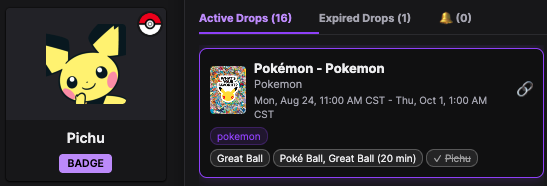
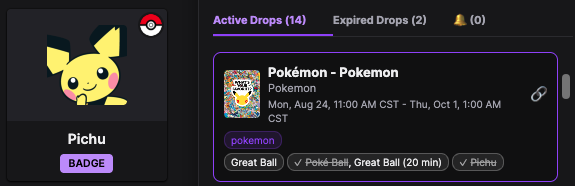
feat(twitch-drops-highlighter): tacha la bola agotada de una reward campaign y comparte su campaña con enlace propio — bump 1.3.9 -> 1.3.10

diff --git a/twitch-drops-highlighter.user.js b/twitch-drops-highlighter.user.js
@@ -1,7 +1,7 @@
 // ==UserScript==
 // @name         Twitch Drops Highlighter + Keywords (Full + i18n)
 // @namespace    http://tampermonkey.net/
-// @version      1.3.9
+// @version      1.3.10
 // @description  Highlights the Twitch drop campaigns matching your keywords on the page itself, and lists them in a panel split into active and expired. Rewards you own are ticked, one earned but not collected is flagged with a gift, and every open card shows the watch time you still need. Sort by closing date or by cheapest, trim the list with four filters, and exclude with keywords starting with "-". Optional auto-claim of finished drops. Reads badge campaigns too. 16 languages, read-only GraphQL queries.
[1 lines of base64/hex data omitted]
 // @match        https://www.twitch.tv/drops/*
@@ -18,7 +18,7 @@
 
 (function () {
     "use strict";
-    const SCRIPT_VERSION = "1.3.9";
+    const SCRIPT_VERSION = "1.3.10";
     console.log("Twitch Drops Highlighter cargado. Version:", SCRIPT_VERSION);
 
     // =============================================
@@ -1853,6 +1853,38 @@
                 const required = p ? (Number(p.required) || 0) : 0;
                 if (p && required > 0 && (Number(p.current) || 0) >= required) return true;
             }
+            // CONTENEDORES: una reward campaign no reparte premios, reparte cajas —«Poké
+            // Ball», «Great Ball»— que se abren solas al cumplir el tiempo y sueltan un
+            // emblema. El historial apunta el EMBLEMA y nunca la caja (el `reward.id` de
+            // la bola no aparece en `earnedDropRewards` por construccion), asi que estos
+            // tramos llegan con `benefitIds: []` y por el camino de abajo no podrian
+            // marcarse jamas. Lo que si se puede es contar: cuantas cajas prometio la
+            // campaña contra cuantas concesiones lleva.
+            //
+            // Se compara POR CAMPAÑA y no recompensa a recompensa, y es deliberado. El
+            // historial dice de que campaña salio cada emblema, pero no de que caja, asi
+            // que repartir las concesiones entre varias recompensas de la misma campaña
+            // seria inventarselo. Comparando totales, esto solo puede dar `true` cuando
+            // TODOS los grupos han entregado —o sea cuando no queda ninguna caja por
+            // abrir—: mientras la campaña esta a medias marca de menos, que es el lado
+            // bueno del error y la regla de la casa.
+            //
+            // Ejemplo con lo que hay hoy (2026-09-08, «First Partners Collection»): la
+            // Poké Ball es 1 grupo y su campaña concedio «Pichu», asi que 1 >= 1 y la
+            // bola sale tachada; las dos campañas de Great Ball son 3 grupos cada una y
+            // van por 0, asi que no se tocan. Lo que hace generalizable esto es que
+            // ninguna de las dos cifras esta escrita aqui: las dos salen de la API.
+            //
+            // Y falla por defecto tambien si dos cajas dieran el MISMO emblema: el indice
+            // deduplica por (id + nombre), contaria una y no marcaria. Preferible a lo
+            // contrario.
+            if (drop.rewardCampaign) {
+                const gruposPrometidos = Number(drop.campaignGroups) || 0;
+                if (!drop.campaignId || gruposPrometidos <= 0) return false;
+                const concedidos = (_earnedRewardsByCampaign[drop.campaignId] || []).length;
+                return concedidos >= gruposPrometidos;
+            }
+
             // El cruce por benefit es un RECURSO, no la fuente buena, y solo vale
             // cuando no hay dato por tramo: si la campaña esta en el inventario, Twitch
             // ya dijo tramo a tramo lo que tienes (self.isClaimed, arriba) y esto solo
@@ -2669,6 +2701,13 @@
                             // (ver _earnedRewardsByCampaign), que es lo unico que se puede
                             // saber de un contenedor cuyo propio id no consta en el historial.
                             campaignId: rc.id || '',
+                            // CUANTAS cajas promete esta campaña. Es el numero de grupos,
+                            // y no es una lectura mia: coincide con el badge «x3» que la
+                            // propia pagina de campañas pinta sobre la Great Ball —tres
+                            // grupos— y con su ausencia en la Poké Ball, que tiene uno.
+                            // Verificado el 2026-09-08 con el volcado completo. Sin esto
+                            // no hay forma de saber cuando una reward campaign se agota.
+                            campaignGroups: grupos.length,
                             // Y que esto es una reward campaign, dicho a las claras. Las
                             // campañas de drops tambien llevan `campaignId`, asi que sin esta
                             // marca lo de abajo les añadiria un premio ya concedido que ellas
@@ -2702,18 +2741,35 @@
                     // deduplicado a TODAS de golpe. Tampoco les hace falta: su clave
                     // lleva el nombre de la campaña, que Twitch no traduce.
                     //
-                    // SIN campaignId tampoco, y esto no es una suposicion: NO EXISTE
-                    // enlace profundo a una reward campaign. Comprobado el 2026-08-08
-                    // por los dos lados con «FF14 Support a Streamer»:
-                    //   · se le paso su id a `?dropID=` —que si funciona con las
-                    //     campañas de drops, tambien verificado— y Twitch no lo
-                    //     reconoce: abre la lista y no enfoca nada;
-                    //   · volcando los enlaces de su tarjeta en la pagina, lo unico que
-                    //     hay es vincular cuenta (secure.square-enix.com), el directorio
-                    //     del juego (/directory/category/...) y /drops/inventory. Twitch
-                    //     no las trata como algo navegable.
-                    // Asi que el 🔗 copia la pagina de campañas a secas, que es la
-                    // verdad: mejor un enlace generico que uno con un uuid inerte.
+                    // CON campaignId, y esto CORRIGE lo que aqui decia antes. La nota
+                    // vieja afirmaba que NO existe enlace profundo a una reward campaign,
+                    // comprobado el 2026-08-08 con «FF14 Support a Streamer»: se le paso su
+                    // id a `?dropID=` y Twitch abrio la lista sin enfocar nada, asi que el
+                    // 🔗 caia al enlace generico. Era cierto de ESA campaña y se generalizo
+                    // de mas.
+                    //
+                    // Lo que lo tumba no es un razonamiento, es Twitch: el panel «Drops y
+                    // Mas» del canal escribe el enlace el mismo —«Visita la campaña First
+                    // Partners Collection» apunta a `?dropID=92f516f7-…`, que es el `rc.id`
+                    // de la Poké Ball—. Y abrirlo funciona: verificado el 2026-09-08 con
+                    // LOS TRES ids de la campaña de Pokemon (`92f516f7…`, `9bdb6607…`,
+                    // `19f00aac…`), que llevan a /drops/campaigns → «Campañas de
+                    // recompensas abiertas» y despliegan el acordeon de Pokémon.
+                    //
+                    // Los tres valen igual, asi que da lo mismo cual quede: la pagina las
+                    // junta en UN acordeon —el mismo que muestra «Great Ball x3» y «Poké
+                    // Ball» juntas— igual que este mapa las junta en una entrada. Se pone
+                    // en la creacion y no se sobreescribe: la primera que llegue gana, y
+                    // como el orden de la API no esta garantizado, esa arbitrariedad tiene
+                    // que ser inofensiva. Lo es porque los tres enfocan lo mismo; si algun
+                    // dia dejaran de hacerlo, esto es lo que habria que decidir a mano.
+                    //
+                    // Por que sigue sin haber garantia general: lo verificado es esta
+                    // campaña, no «toda reward campaign». Con FF14 el enlace era inerte, y
+                    // la hipotesis mas simple —sin comprobar— es que «Support a Streamer»
+                    // no sale en /drops/campaigns, asi que no habia nada que enfocar. Un id
+                    // que no enfoque degrada a abrir la lista, que es lo que hacia el
+                    // generico: el peor caso es el comportamiento viejo.
                     //
                     // Y se ACUMULA, no se asigna. Una marca reparte varias campañas con
                     // el MISMO nombre —«First Partners Collection» son tres ids: la
@@ -2723,7 +2779,7 @@
                     // sin dejar rastro; ahora sus tramos entran en la misma entrada, que
                     // es lo que ya se hace con las campañas de drops que comparten juego.
                     if (!_apiDropNames[key]) {
-                        _apiDropNames[key] = { drops: [], startAt: rc.startsAt || '', endAt: rc.endsAt || '', displayTitle: key, imgSrc: _apiImage(rc), boxArt: _boxArtUrlOf(rc), searchText, gameId: _gameIdOf(rc), brand, perCampaign: true };
+                        _apiDropNames[key] = { drops: [], startAt: rc.startsAt || '', endAt: rc.endsAt || '', displayTitle: key, imgSrc: _apiImage(rc), boxArt: _boxArtUrlOf(rc), searchText, gameId: _gameIdOf(rc), brand, perCampaign: true, campaignId: rc.id || '' };
                     } else {
                         _mergeSearchText(_apiDropNames[key], searchText);
                     }
@@ -3187,11 +3243,12 @@
             // asi que por el camino normal esta fila no puede marcarse NUNCA: su id no
             // existe en el historial (verificado el 2026-09-01, ver _earnedRewardsByCampaign).
             //
-            // Y tachar la bola porque la campaña concedio algo seria pasarse: la campaña
-            // sigue abierta y quedan tres emblemas por salir, asi que el ✓ diria «ya esta»
-            // sobre algo que no esta. Se pinta entonces lo unico que consta y sin
-            // interpretarlo: QUE te dio, con su ✓, en su propio chip y al lado de la bola.
-            // La bola se queda como esta —sin marcas— porque sobre ella no hay dato.
+            // Este chip dice QUE te dio, que es otra pregunta que si la bola esta hecha.
+            // Esa segunda la responde ahora _isDropClaimed contando grupos contra
+            // concesiones (2026-09-08), asi que la bola SI puede acabar tachada; lo que
+            // no cambia es que el nombre de lo concedido solo se sabe por aqui. Los dos
+            // se pintan: «✓ Poké Ball» dice que no queda ninguna por abrir y «✓ Pichu»
+            // dice lo que salio de ella.
             const concedidos = [];
             const campañasVistas = new Set();
             for (const d of drops) {
@@ -4861,10 +4918,13 @@
         // Y la ruta quedo COMPROBADA EN VIVO el 2026-08-08: abriendo el enlace copiado
         // por el 🔗, Twitch reconoce el id y despliega esa campaña.
         //
-        // Solo vale para campañas de DROPS. Las reward campaigns son otro sistema: se
-        // probo pasarles su propio id por aqui y Twitch no lo reconoce, asi que sus
-        // entradas se guardan sin `campaignId` y este enlace cae al generico (ver el
-        // comentario donde se construyen).
+        // Vale TAMBIEN para las reward campaigns, y esto cambio el 2026-09-08. Aqui se
+        // decia que Twitch no reconocia su id —cierto de «FF14 Support a Streamer» el
+        // 2026-08-08— y que por eso sus entradas iban sin `campaignId`. Ya no: el propio
+        // panel del canal enlaza `?dropID=<rc.id>` para la campaña de Pokemon, y los tres
+        // ids de esa campaña despliegan su acordeon en /drops/campaigns. El porque
+        // completo, con los ids y la parte que sigue sin garantizarse, esta en el
+        // comentario de la rama donde se construyen esas entradas.
         //
         // cleanInventory sigue volcando en consola el primer href real que encuentra:
         // ya no hace falta para comprobar la ruta, pero es lo que avisaria si Twitch

diff --git a/tests/test-emblema-concedido.js b/tests/test-emblema-concedido.js
@@ -1,16 +1,22 @@
-// Una reward campaign reparte CONTENEDORES: la «Poké Ball» no es un premio que se tenga,
-// es una caja que se abre sola al cumplir el tiempo y suelta un emblema. El historial
-// apunta el emblema y NO la caja, asi que la fila de la bola no puede marcarse por su id
-// —no existe en el historial— y tacharla porque la campaña concedio algo seria decir que
-// esta cerrada cuando aun quedan tres emblemas por salir.
+// Una reward campaign no reparte premios, reparte CONTENEDORES: la «Poké Ball» es una
+// caja que se abre sola al cumplir el tiempo y suelta un emblema. El historial apunta el
+// emblema y NUNCA la caja, asi que la fila de la bola no puede marcarse por su id —no
+// existe en el historial— y hay que decidirla contando.
 //
-// Lo que se comprueba es eso mismo, en las dos direcciones:
-//   1. el emblema concedido («Pichu») sale, con su ✓ y tachado;
-//   2. la bola («Poké Ball») NO sale tachada.
-// Sin la segunda, el arreglo pasaria igual marcandolo todo.
+// Lo que se comprueba, y son dos cosas distintas:
+//   1. QUE te dio: el emblema concedido («Pichu») sale, con su ✓ y tachado.
+//   2. SI la caja esta hecha: se tacha cuando las concesiones de esa campaña alcanzan el
+//      numero de `rewardGroups` que promete, y NO antes.
+// Sin la segunda mitad de (2) —los casos de «una de tres»— el arreglo pasaria igual
+// tachando en cuanto la campaña concede cualquier cosa, que es justo el error que se
+// quiere evitar: esconder una caja que aun puedes ganar.
 //
-// Los datos son los del volcado real del 2026-09-01 (consola del usuario), recortados a
-// lo que la prueba usa. Lo importante y lo que no se puede tocar: `campaign.id` del nodo
+// Los datos son los del volcado real de `rewardCampaignsAvailableToUser` (primaria,
+// 2026-09-08) recortado a lo que la prueba usa, con sus TRES campañas y sus grupos: 1
+// para la Poké Ball, 3 para cada Great Ball. Esas cifras son el badge «x3» que la pagina
+// de campañas pinta, y no se tocan.
+//
+// Lo importante y lo que no se puede tocar del lado del historial: `campaign.id` del nodo
 // concedido es `92f516f7-…`, el MISMO que el `id` de la reward campaign de la Poké Ball,
 // mientras que su `item.id` (`7e978af0-…`) no se parece al `reward.id` de la bola
 // (`9a604770-…`). Ese es el unico cruce que hay.
@@ -18,32 +24,44 @@ const { run } = require('./harness');
 
 const CAMP_POKEBALL = '92f516f7-f6d5-4fa6-909a-48c5b94d2a43';
 const CAMP_GREATBALL_SUBS = '9bdb6607-22c2-4317-b18a-1b6924e555d6';
+const CAMP_GREATBALL_TIEMPO = '19f00aac-6679-4e10-b36c-881beb654e52';
 const ID_POKEBALL = '9a604770-9661-11f1-8842-0a58a9feac02';
 const ID_GREATBALL = '87989657-9661-11f1-9e11-0a58a9feac02';
 const ID_PICHU = '7e978af0-9661-11f1-b03f-0a58a9feac02';
 
-const rewardCampaign = (id, nombre, premioId, minutos, subs) => ({
+const premio = (id, nombre) => ({
+    id, name: nombre,
+    thumbnailImage: { image1xURL: 'https://static-cdn.jtvnw.net/twitch-quests-assets/REWARD/y.png' },
+    earnableUntil: '2099-10-01T07:00:00Z'
+});
+
+// `requisitos` es una lista con un elemento por GRUPO: [{ subs, minutos }, …]. Su
+// longitud es la cantidad de cajas que promete la campaña, que es lo que decide el
+// tachado. La campaña de subs tiene tres grupos con subsGoal 1, 2 y 3; la de tiempo,
+// tres grupos IDENTICOS de 20 min. Los dos casos salen del volcado tal cual.
+const rewardCampaign = (id, nombre, premioId, requisitos) => ({
     id, name: 'First Partners Collection', brand: 'Pokemon',
     startsAt: '2026-08-24T17:00:00Z', endsAt: '2099-10-01T07:00:00Z', status: 'UNKNOWN',
     isSitewide: true, game: null,
-    unlockRequirements: { subsGoal: subs, minuteWatchedGoal: minutos },
+    unlockRequirements: { subsGoal: requisitos[0].subs, minuteWatchedGoal: requisitos[0].minutos },
     image: { image1xURL: 'https://static-cdn.jtvnw.net/twitch-quests-assets/CAMPAIGN/x.png' },
-    rewards: [{
-        id: premioId, name: nombre,
-        thumbnailImage: { image1xURL: 'https://static-cdn.jtvnw.net/twitch-quests-assets/REWARD/y.png' },
-        earnableUntil: '2099-10-01T07:00:00Z'
-    }]
+    rewards: [premio(premioId, nombre)],
+    rewardGroups: requisitos.map((r, i) => ({
+        id: 'grupo-' + id.slice(0, 4) + '-' + i,
+        unlockRequirements: { subsGoal: r.subs, minuteWatchedGoal: r.minutos, turboSubsGoal: 0, eventTriggerGoal: 0 },
+        rewards: [premio(premioId, nombre)]
+    }))
 });
 
-// Las TRES campañas del volcado: mismo nombre y marca, una recompensa cada una. No hay
-// `rewardGroups` en la respuesta de verdad, asi que aqui tampoco: es la caida a `rewards`
-// la que tiene que funcionar.
 const dashboard = [{
     data: {
         currentUser: { id: '1', login: 'prueba', dropCampaigns: [] },
         rewardCampaignsAvailableToUser: [
-            rewardCampaign(CAMP_POKEBALL, 'Poké Ball', ID_POKEBALL, 20, 0),
-            rewardCampaign(CAMP_GREATBALL_SUBS, 'Great Ball', ID_GREATBALL, 0, 2)
+            rewardCampaign(CAMP_POKEBALL, 'Poké Ball', ID_POKEBALL, [{ subs: 0, minutos: 20 }]),
+            rewardCampaign(CAMP_GREATBALL_SUBS, 'Great Ball', ID_GREATBALL,
+                           [{ subs: 1, minutos: 0 }, { subs: 2, minutos: 0 }, { subs: 3, minutos: 0 }]),
+            rewardCampaign(CAMP_GREATBALL_TIEMPO, 'Great Ball', ID_GREATBALL,
+                           [{ subs: 0, minutos: 20 }, { subs: 0, minutos: 20 }, { subs: 0, minutos: 20 }])
         ]
     }
 }];
@@ -70,16 +88,40 @@ const inventory = (edges) => ([{
 
 const CASOS = [
     {
-        nombre: 'con el emblema ya concedido',
-        edges: [nodoConcedido(ID_PICHU, 'Pichu', CAMP_POKEBALL)],
-        esperaPichu: true
-    },
-    {
-        // Control negativo: mismo codigo, historial sin ese nodo. Si «Pichu» saliera
-        // igual, es que lo esta sacando de otro sitio y el test no probaria nada.
+        // Control negativo: mismo codigo, historial sin nada. Si algo saliera tachado o
+        // «Pichu» apareciera igual, es que sale de otro sitio y el test no probaria nada.
         nombre: 'sin conceder nada todavia',
         edges: [],
-        esperaPichu: false
+        pichu: false, bolaTachada: false, greatSubsTachada: false, greatTiempoTachada: false
+    },
+    {
+        // 1 concesion contra 1 grupo: la Poké Ball se agoto y se tacha. Las dos campañas
+        // de Great Ball siguen a 0 de 3 y no se tocan, aunque la concesion sea «de
+        // Pokemon»: lo que cuenta es la campaña, no la marca.
+        nombre: 'la Poké Ball, ya abierta (1 concesion de 1 grupo)',
+        edges: [nodoConcedido(ID_PICHU, 'Pichu', CAMP_POKEBALL)],
+        pichu: true, bolaTachada: true, greatSubsTachada: false, greatTiempoTachada: false
+    },
+    {
+        // EL CASO QUE HACE FALTA: la campaña concedio algo y aun asi NO se tacha, porque
+        // 1 de 3 no es «hecha». Es la diferencia entre contar y conformarse con «hay
+        // alguna concesion», y sin este caso las dos reglas se ven identicas.
+        nombre: 'una Great Ball de tres (1 concesion de 3 grupos)',
+        edges: [nodoConcedido('badge-1', 'Bulbasaur', CAMP_GREATBALL_SUBS)],
+        pichu: false, bolaTachada: false, greatSubsTachada: false, greatTiempoTachada: false
+    },
+    {
+        // Las tres. Y de paso el acotado por campaña con el peor caso posible: las dos
+        // campañas de Great Ball reparten EL MISMO nombre y EL MISMO `reward.id`, asi que
+        // si el conteo no fuera por campaña, tachar la de subs tacharia tambien la de
+        // tiempo, que va por 0.
+        nombre: 'las tres Great Ball de subs (3 concesiones de 3 grupos)',
+        edges: [
+            nodoConcedido('badge-1', 'Bulbasaur', CAMP_GREATBALL_SUBS),
+            nodoConcedido('badge-2', 'Charmander', CAMP_GREATBALL_SUBS),
+            nodoConcedido('badge-3', 'Squirtle', CAMP_GREATBALL_SUBS)
+        ],
+        pichu: false, bolaTachada: false, greatSubsTachada: true, greatTiempoTachada: false
     },
     {
         // El control negativo de verdad, y es un caso REAL: una segunda cuenta (2026-09-01)
@@ -100,7 +142,7 @@ const CASOS = [
             nodoConcedido('f7c2b951-5f8d-11f1-b5a9-0a58a9feac02', 'FootballHype Emote',
                           '8e0db5de-2518-4991-a0bb-9fe187ab4999')
         ],
-        esperaPichu: false,
+        pichu: false, bolaTachada: false, greatSubsTachada: false, greatTiempoTachada: false,
         ajenos: ['Football Fest 2026', 'FootballHype Emote']
     }
 ];
@@ -118,11 +160,22 @@ const comprobar = (ok, msg) => { console.log((ok ? '  ok   ' : '  FALLA') + ' ' 
             (tarjeta ? '' : ' (titulos: ' + JSON.stringify(r.chips.map(x => x.titulo)) + ')'));
         if (!tarjeta) continue;
 
+        // Las dos Great Ball comparten nombre, asi que se separan por el chip en el que
+        // caen: el de 20 min es el que lleva ademas la Poké Ball —la campaña de tiempo—,
+        // y el otro es el de subs, que va sin coste. Sin esta separacion el caso de las
+        // tres concesiones no se podria leer.
+        const chipConBola = tarjeta.badges.find(b => b.premios.some(p => p.texto === 'Poké Ball'));
+        const chipSubs = tarjeta.badges.find(b => b !== chipConBola && b.premios.some(p => p.texto === 'Great Ball'));
         const premios = tarjeta.badges.flatMap(b => b.premios);
         const pichu = premios.find(p => p.texto === 'Pichu');
-        const bola = premios.find(p => p.texto === 'Poké Ball');
+        const bola = (chipConBola && chipConBola.premios.find(p => p.texto === 'Poké Ball')) || null;
+        const greatTiempo = (chipConBola && chipConBola.premios.find(p => p.texto === 'Great Ball')) || null;
+        const greatSubs = (chipSubs && chipSubs.premios.find(p => p.texto === 'Great Ball')) || null;
 
-        if (c.esperaPichu) {
+        comprobar(!!bola, 'la fila de la «Poké Ball» sigue en la tarjeta');
+        comprobar(!!greatSubs && !!greatTiempo, 'las dos «Great Ball» siguen en la tarjeta');
+
+        if (c.pichu) {
             comprobar(!!pichu, 'sale el emblema concedido «Pichu»');
             comprobar(!!pichu && pichu.tachado, '«Pichu» sale tachado (obtenido)');
             comprobar(tarjeta.badges.some(b => /✓/.test(b.texto) && /Pichu/.test(b.texto)),
@@ -133,14 +186,21 @@ const comprobar = (ok, msg) => { console.log((ok ? '  ok   ' : '  FALLA') + ' ' 
                 comprobar(!premios.some(pr => pr.texto === ajeno),
                     'no se cuela «' + ajeno + '», que es de otra campaña');
             }
-            comprobar(!tarjeta.badges.some(b => /✓/.test(b.texto)),
-                'la tarjeta no lleva ningun ✓');
         }
 
-        comprobar(!!bola, 'la fila de la «Poké Ball» sigue en la tarjeta');
-        comprobar(!!bola && !bola.tachado, 'la «Poké Ball» NO se tacha: la campaña sigue dando');
-        comprobar(!tarjeta.badges.some(b => /✓\s*Poké Ball/.test(b.texto)),
-            'la «Poké Ball» no lleva ✓');
+        comprobar(!!bola && bola.tachado === c.bolaTachada,
+            'la «Poké Ball» ' + (c.bolaTachada ? 'SE tacha: no queda ninguna por abrir'
+                                               : 'NO se tacha: la campaña sigue dando'));
+        comprobar(!!greatSubs && greatSubs.tachado === c.greatSubsTachada,
+            'la «Great Ball» de subs ' + (c.greatSubsTachada ? 'SE tacha' : 'NO se tacha'));
+        comprobar(!!greatTiempo && greatTiempo.tachado === c.greatTiempoTachada,
+            'la «Great Ball» de tiempo ' + (c.greatTiempoTachada ? 'SE tacha' : 'NO se tacha'));
+
+        // El ✓ y el tachado son la misma verdad dicha dos veces: un chip con ✓ delante y
+        // sin tachar seria un fallo que el texto por si solo no distingue.
+        const conTick = /✓\s*Poké Ball/.test((chipConBola && chipConBola.texto) || '');
+        comprobar(conTick === c.bolaTachada,
+            'el ✓ de la «Poké Ball» ' + (c.bolaTachada ? 'esta' : 'no esta') + ', igual que su tachado');
     }
     console.log(fallos === 0 ? '\nTODO EN VERDE' : '\n' + fallos + ' COMPROBACIONES EN ROJO');
     process.exit(fallos === 0 ? 0 : 1);

diff --git a/README.md b/README.md
@@ -27,13 +27,21 @@ Userscript that classifies and highlights drops/campaigns on Twitch based on you
 
 *Clicking that same drop opens the full detail: progress in minutes and percent, plus the time remaining. It is the same drop and the same moment as the two shots above — **2 / 30 min · 7%** and the same **28m** — so what the box says on hover and what the detail says agree. / Al hacer clic en ese mismo drop se abre el detalle completo: progreso en minutos y porcentaje, más el tiempo restante. Es el mismo drop y el mismo momento que las dos capturas de arriba —**2 / 30 min · 7%** y los mismos **28m**—, así que lo que dice la caja al pasar el ratón y lo que dice el detalle coinciden.*
 
-<img src="docs/screenshot-keyword.png" width="380" alt="A panel card titled Sonic Rumble Party - SEGA carrying two keyword chips, sonic and twitch">
+<img src="docs/screenshot-keyword.png" width="380" alt="A panel card titled Grand Theft Auto V - Twitch Gaming carrying two keyword chips, grand theft auto and twitch, above five reward chips of which four are ticked and struck through and one, nopixel V Sub Badge, is not">
 
-*Every card says which keyword found it — and **the word does not have to be in the title**. Here the campaign is called «Sonic Rumble Party - SEGA», and the `twitch` chip comes from the campaign's own name, which Twitch never prints on the card. A card with no explanation is indistinguishable from a filter that has gone wrong. / Cada tarjeta dice qué palabra clave la encontró — y **la palabra no tiene por qué estar en el título**. Aquí la campaña se llama «Sonic Rumble Party - SEGA», y el chip `twitch` sale del nombre de la propia campaña, que Twitch no imprime en la tarjeta. Una tarjeta sin explicación no se distingue de un filtro que falla.*
+*Every card says **which keyword found it**, so a card is never there without a reason on it — a card that cannot explain itself is indistinguishable from a filter that has gone wrong. Here both reasons are in plain sight, and they come from different halves of the title: `grand theft auto` from the game and `twitch` from its owner, **Twitch Gaming**. Below them, **what you already own is ticked and struck through one reward at a time** — four here, with **nopixel V Sub Badge** left plain because it is still to be earned. Look at the two **GTA$250K**: it is the same reward handed out at two different watch-time tiers, and each tier keeps its own chip and its own mark, because the tier is the unit you claim. / Cada tarjeta dice **qué palabra clave la encontró**, así que nunca aparece sin un motivo encima — una tarjeta que no se explica no se distingue de un filtro que falla—. Aquí los dos motivos están a la vista, y salen de mitades distintas del título: `grand theft auto` del juego y `twitch` de su propietario, **Twitch Gaming**. Debajo, **lo que ya tienes va con ✓ y tachado, recompensa a recompensa** —cuatro aquí, con **nopixel V Sub Badge** sin marcar porque queda por ganar—. Fíjate en los dos **GTA$250K**: es la misma recompensa repartida en dos tramos de visualización distintos, y cada tramo conserva su propio chip y su propia marca, porque el tramo es lo que se reclama.*
 
-<img src="docs/screenshot-granted-badge.png" width="420" alt="The Pichu badge tile next to the panel card Pokemon - Pokemon, whose chips show Great Ball and Poke Ball, Great Ball (20 min) unmarked and a ticked, struck-through Pichu">
+<img src="docs/screenshot-keyword-twitch.png" width="380" alt="A panel card titled LEGO Batman: Legacy of the Dark Knight - Warner Bros. Interactive carrying two keyword chips, twitch and batman, even though the word twitch appears nowhere on the card">
 
-*A **reward campaign hands out containers, not rewards**: a Poké Ball is a box that opens by itself once you have watched enough, and what comes out of it is a chat badge — here **Pichu**, on the left as Twitch shows it. Twitch records the badge and never the ball, so the badge is what the card can tick, and the two ball chips stay unmarked **on purpose**: that campaign is still running and the collection still has three badges to reveal, so a ✓ there would say «done» about something that is not. Look at the title too, because it is the same word spelled two ways: Twitch prints the game as **Pokémon** and its owner as **Pokemon**, and the API calls this very campaign «First Partners Collection - Pokemon», which looks like neither. The card finds its rewards anyway because the match is made on the brand and **accents are folded on both sides** — the same reason the keyword `pokemon`, with no accent, found a campaign that carries one. / Una **campaña de recompensas reparte contenedores, no recompensas**: una Poké Ball es una caja que se abre sola al cumplir el tiempo, y lo que sale de ella es un emblema de chat — aquí **Pichu**, a la izquierda tal y como lo enseña Twitch. Twitch apunta el emblema y nunca la bola, así que el emblema es lo que la tarjeta puede marcar, y los dos chips de bolas se quedan sin marca **a propósito**: esa campaña sigue viva y a la colección le faltan tres emblemas por descubrir, así que un ✓ ahí diría «ya está» sobre algo que no está. Fíjate también en el título, porque es la misma palabra escrita de dos formas: Twitch imprime el juego como **Pokémon** y a su dueño como **Pokemon**, y la API llama a esta misma campaña «First Partners Collection - Pokemon», que no se parece a ninguna de las dos. La tarjeta encuentra sus recompensas igual porque el cruce se hace por la marca y **los acentos se pliegan en los dos lados** — que es lo mismo que hace que la keyword `pokemon`, sin acento, encuentre una campaña que lo lleva.*
+*And the case that looks like a bug and is not: **the chip can name a word that is nowhere on the card**. Read this one — «LEGO Batman: Legacy of the Dark Knight», by **Warner Bros. Interactive** — and `batman` is right there, but `twitch` is not, not in the game and not in the owner. It matched the **campaign's own name**, which Twitch keeps in its API and never prints here. The chip is what makes that visible: without it the card would look like it walked in uninvited. Where you see it is on the cards the panel fills **from the API** — the sections you are not standing in front of —, because a row you have on screen explains itself with the text the page shows. / Y el caso que parece un fallo y no lo es: **el chip puede nombrar una palabra que no está en ninguna parte de la tarjeta**. Lee esta —«LEGO Batman: Legacy of the Dark Knight», de **Warner Bros. Interactive**— y `batman` está ahí, pero `twitch` no, ni en el juego ni en el propietario. Casó por el **nombre de la propia campaña**, que Twitch guarda en su API y aquí no imprime nunca. El chip es lo que lo hace visible: sin él, la tarjeta parecería haberse colado sola. Donde se ve es en las tarjetas que el panel llena **desde la API** —las secciones que no tienes delante—, porque una fila que tienes en pantalla se explica con el texto que la página enseña.*
+
+<img src="docs/screenshot-granted-badge.png" width="420" alt="The Pichu badge tile next to the panel card Pokemon - Pokemon, whose chips show an unmarked Great Ball, a ticked and struck-through Poke Ball beside an unmarked Great Ball (20 min), and a ticked, struck-through Pichu">
+
+*A **reward campaign hands out containers, not rewards**: a Poké Ball is a box that opens by itself once you have watched enough, and what comes out of it is a chat badge — here **Pichu**, on the left as Twitch shows it. Twitch records the badge and never the ball, so the ball can never be ticked for being in your history; it is ticked by **counting**. Each campaign promises a fixed number of containers — the same number the campaigns page prints as **x3** on a tile — and once it has granted that many, there is nothing left to open. That is why this card carries **two different ticks**: **Poké Ball** is struck through because its campaign promised one and has already given one, while **Pichu** is what came out of it. The two **Great Ball** chips stay unmarked **on purpose** — those campaigns promise three each and have granted none, and marking a box you can still earn would hide it. Look at the title too, because it is the same word spelled two ways: Twitch prints the game as **Pokémon** and its owner as **Pokemon**, and the API calls this very campaign «First Partners Collection - Pokemon», which looks like neither. The card finds its rewards anyway because the match is made on the brand and **accents are folded on both sides** — the same reason the keyword `pokemon`, with no accent, found a campaign that carries one. / Una **campaña de recompensas reparte contenedores, no recompensas**: una Poké Ball es una caja que se abre sola al cumplir el tiempo, y lo que sale de ella es un emblema de chat — aquí **Pichu**, a la izquierda tal y como lo enseña Twitch. Twitch apunta el emblema y nunca la bola, así que la bola no puede marcarse por constar en tu historial: se marca **contando**. Cada campaña promete un número fijo de contenedores —el mismo que la página de campañas escribe como **x3** sobre una tarjeta— y en cuanto ha concedido esa cantidad ya no queda ninguno por abrir. Por eso esta tarjeta lleva **dos ✓ que dicen cosas distintas**: **Poké Ball** sale tachada porque su campaña prometía una y ya ha dado una, y **Pichu** es lo que salió de ella. Los dos chips de **Great Ball** se quedan sin marca **a propósito** —esas campañas prometen tres cada una y no han dado ninguna, y marcar una caja que aún puedes ganar sería esconderla—. Fíjate también en el título, porque es la misma palabra escrita de dos formas: Twitch imprime el juego como **Pokémon** y a su dueño como **Pokemon**, y la API llama a esta misma campaña «First Partners Collection - Pokemon», que no se parece a ninguna de las dos. La tarjeta encuentra sus recompensas igual porque el cruce se hace por la marca y **los acentos se pliegan en los dos lados** — que es lo mismo que hace que la keyword `pokemon`, sin acento, encuentre una campaña que lo lleva.*
+
+<img src="docs/screenshot-mystery-badge.png" width="380" alt="A Poke Ball tile labelled MYSTERY BADGE showing 20/20m (Day 1), next to the script's detail box reading Progress: 20 / 20 min, 100%, Day 1 and Time remaining: 0m">
+
+*The same campaign from an account that has **not** opened its ball yet — and the reason the detail box writes the day next to the percentage. **100% does not mean done here**: a Poké Ball costs 20 minutes on each of three separate days, so this is 100% of **Day 1** and the ball stays shut. Twitch shows it as a **MYSTERY BADGE** until it opens. Left alone, «100%» and «0m remaining» would read as a finished drop waiting to be claimed, which is the one thing this drop can never be — there is no button, it opens by itself. / La misma campaña desde una cuenta que **no** ha abierto su bola todavía — y el motivo de que la caja de detalle escriba el día junto al porcentaje. Aquí **100% no significa terminado**: una Poké Ball cuesta 20 minutos en cada uno de tres días distintos, así que esto es el 100% del **día 1** y la bola sigue cerrada. Twitch la enseña como **EMBLEMA MISTERIOSO** hasta que se abre. Sin ese añadido, «100%» y «faltan 0m» se leerían como un drop hecho esperando a que lo reclames, que es justo lo que este drop no puede ser: no hay botón, se abre solo.*
 
 ## English
 
